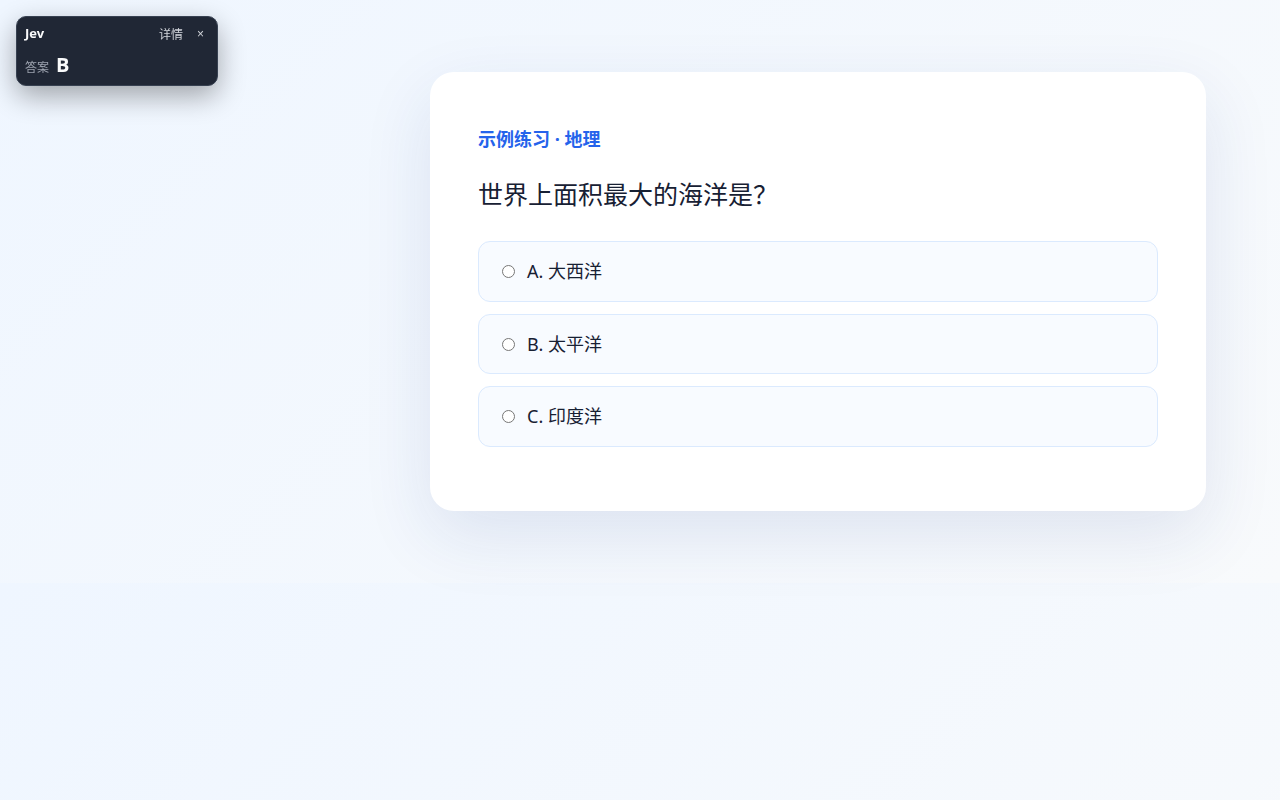
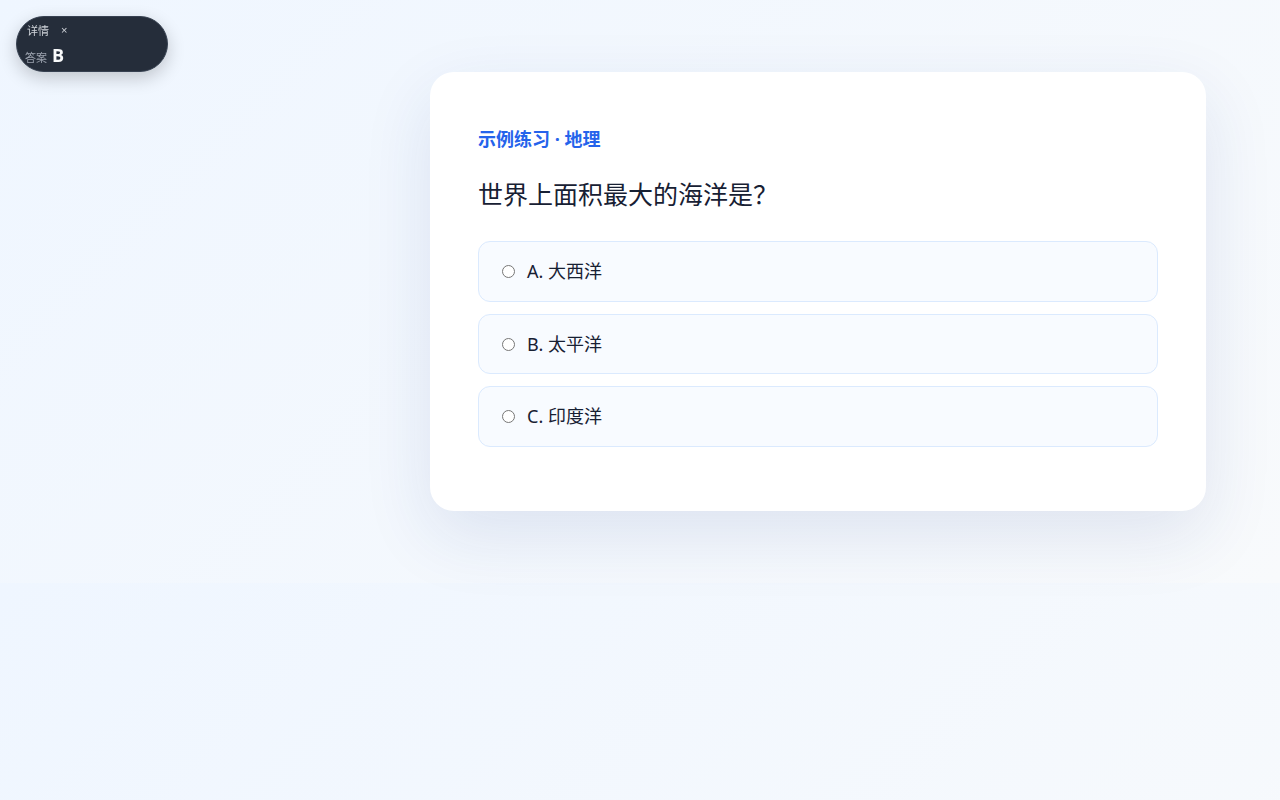
ui: make answer overlay unobtrusive

Changed region(s): [[0.0, 0.0, 0.1875, 0.1562]]

diff --git a/src/content/overlay.ts b/src/content/overlay.ts
@@ -151,4 +151,4 @@ export class ResultOverlay {
 }
 function warningText(w: string) { return ({ LOW_OCR_CONFIDENCE: "OCR 置信度较低", POSSIBLE_FORMULA: "可能包含公式", POSSIBLE_DIAGRAM: "可能依赖图形", INCOMPLETE_OPTIONS: "选项可能不完整", VISION_MODEL_REQUIRED: "建议使用视觉模型", VISION_MODEL_UNSUPPORTED: "当前视觉模型不支持图片，已降级到本地 OCR", VISION_SERVICE_UNAVAILABLE: "视觉服务暂时不可用，已降级到本地 OCR", DOM_OCR_CONFLICT: "网页文字与 OCR 结果冲突", STRUCTURE_REVIEW_REQUIRED: "题目结构尚未确认，请校正" } as Record<string, string>)[w] ?? w; }
 function escapeHtml(value: string) { return value.replace(/[&<>"']/g, (c) => ({ "&": "&amp;", "<": "&lt;", ">": "&gt;", '"': "&quot;", "'": "&#39;" })[c]!); }
-const CSS_TEXT = `:host{all:initial}section{position:fixed;z-index:2147483647;left:12px;top:12px;width:220px;max-width:calc(100vw - 24px);max-height:calc(100vh - 24px);overflow:auto;background:#111827ee;color:#f9fafb;border:1px solid #374151;border-radius:10px;box-shadow:0 10px 28px #0005;font:13px/1.4 system-ui,sans-serif;backdrop-filter:blur(8px)}section.compact{width:200px}section.compact header{border-bottom:0;padding:6px 8px}section.compact header small{display:none}section.compact main{padding:4px 8px 8px}section.expanded{width:360px;max-width:calc(100vw - 24px)}header{display:flex;justify-content:space-between;align-items:center;gap:8px;padding:8px 10px;border-bottom:1px solid #374151;cursor:move}header span{display:flex;gap:4px}header button{background:none;border:0;color:#d1d5db;font-size:12px;padding:2px 5px}main{padding:10px}.answer-compact{display:flex;align-items:baseline;gap:7px;white-space:nowrap;overflow:hidden}.answer-compact span{color:#9ca3af;font-size:12px}.answer-compact strong{font-size:20px;line-height:1.1;overflow:hidden;text-overflow:ellipsis}.answer-compact small{color:#9ca3af}.row{display:grid;grid-template-columns:minmax(0,1.35fr) minmax(48px,1fr) 52px;gap:8px;align-items:center;margin:9px 0}.row[data-option-id]{cursor:pointer}.row[data-option-id]:hover{background:#ffffff0d}.option-copy{min-width:0;display:flex;gap:6px;align-items:baseline}.option-copy>b{flex:0 0 auto}.option-copy span{min-width:0;overflow:hidden;text-overflow:ellipsis;white-space:nowrap;color:#d1d5db}.bar{height:9px;background:#374151;border-radius:9px;overflow:hidden}.bar i{display:block;height:100%;background:linear-gradient(90deg,#22c55e,#60a5fa)}small{color:#9ca3af}.warning,.error{margin:10px 0;padding:9px;border-radius:8px;background:#78350f;color:#fef3c7}.error{background:#7f1d1d}.actions{display:flex;justify-content:flex-end;gap:8px;margin-top:12px}button{cursor:pointer;border:1px solid #4b5563;background:#1f2937;color:#fff;padding:6px 10px;border-radius:7px}.primary{background:#2563eb;border-color:#3b82f6}.editor label{display:block;margin:9px 0}.editor textarea,.editor select{box-sizing:border-box;width:100%;margin-top:4px;background:#0f172a;color:#fff;border:1px solid #475569;border-radius:7px;padding:7px}.editor textarea{min-height:64px;resize:vertical}.preview{margin-bottom:12px}.preview summary{cursor:pointer}.preview-image{position:relative;margin:7px 0;line-height:0}.preview-image img{display:block;width:100%;height:auto;background:#fff}.ocr-text{max-height:140px;overflow:auto;white-space:pre-wrap;margin:7px 0;padding:7px;background:#0f172a;color:#cbd5e1;border-radius:7px;font:12px/1.4 ui-monospace,monospace}.ocr-box{position:absolute;padding:0;border:1px solid #22d3ee;background:#22d3ee18;border-radius:2px}.ocr-box:hover,.ocr-box:focus{background:#f59e0b33;border-color:#f59e0b}.ocr-box[data-label]::after{content:attr(data-label);position:absolute;left:0;top:100%;z-index:2;min-width:120px;padding:4px;background:#020617;color:white;font:11px/1.3 system-ui;white-space:normal}.spinner{display:inline-block;width:14px;height:14px;border:2px solid #64748b;border-top-color:#fff;border-radius:50%;animation:s .8s linear infinite;margin-right:8px}@keyframes s{to{transform:rotate(360deg)}}#explanation{white-space:pre-wrap;margin-top:12px;color:#e5e7eb}`;
+const CSS_TEXT = `:host{all:initial}section{position:fixed;z-index:2147483647;left:12px;top:12px;width:220px;max-width:calc(100vw - 24px);max-height:calc(100vh - 24px);overflow:auto;background:#111827ee;color:#f9fafb;border:1px solid #374151;border-radius:10px;box-shadow:0 10px 28px #0005;font:13px/1.4 system-ui,sans-serif;backdrop-filter:blur(8px)}section.compact{width:150px;border-radius:999px;background:#111827e8;box-shadow:0 6px 18px #0003}section.compact header{border-bottom:0;padding:4px 6px;gap:4px}section.compact header>b,section.compact header small{display:none}section.compact header button{font-size:11px;padding:1px 4px}section.compact main{padding:3px 8px 5px}section.expanded{width:360px;max-width:calc(100vw - 24px)}header{display:flex;justify-content:space-between;align-items:center;gap:8px;padding:8px 10px;border-bottom:1px solid #374151;cursor:move}header span{display:flex;gap:4px}header button{background:none;border:0;color:#d1d5db;font-size:12px;padding:2px 5px}main{padding:10px}.answer-compact{display:flex;align-items:baseline;gap:5px;white-space:nowrap;overflow:hidden}.answer-compact span{color:#9ca3af;font-size:11px}.answer-compact strong{font-size:18px;line-height:1.1;overflow:hidden;text-overflow:ellipsis}.answer-compact small{color:#9ca3af}.row{display:grid;grid-template-columns:minmax(0,1.35fr) minmax(48px,1fr) 52px;gap:8px;align-items:center;margin:9px 0}.row[data-option-id]{cursor:pointer}.row[data-option-id]:hover{background:#ffffff0d}.option-copy{min-width:0;display:flex;gap:6px;align-items:baseline}.option-copy>b{flex:0 0 auto}.option-copy span{min-width:0;overflow:hidden;text-overflow:ellipsis;white-space:nowrap;color:#d1d5db}.bar{height:9px;background:#374151;border-radius:9px;overflow:hidden}.bar i{display:block;height:100%;background:linear-gradient(90deg,#22c55e,#60a5fa)}small{color:#9ca3af}.warning,.error{margin:10px 0;padding:9px;border-radius:8px;background:#78350f;color:#fef3c7}.error{background:#7f1d1d}.actions{display:flex;justify-content:flex-end;gap:8px;margin-top:12px}button{cursor:pointer;border:1px solid #4b5563;background:#1f2937;color:#fff;padding:6px 10px;border-radius:7px}.primary{background:#2563eb;border-color:#3b82f6}.editor label{display:block;margin:9px 0}.editor textarea,.editor select{box-sizing:border-box;width:100%;margin-top:4px;background:#0f172a;color:#fff;border:1px solid #475569;border-radius:7px;padding:7px}.editor textarea{min-height:64px;resize:vertical}.preview{margin-bottom:12px}.preview summary{cursor:pointer}.preview-image{position:relative;margin:7px 0;line-height:0}.preview-image img{display:block;width:100%;height:auto;background:#fff}.ocr-text{max-height:140px;overflow:auto;white-space:pre-wrap;margin:7px 0;padding:7px;background:#0f172a;color:#cbd5e1;border-radius:7px;font:12px/1.4 ui-monospace,monospace}.ocr-box{position:absolute;padding:0;border:1px solid #22d3ee;background:#22d3ee18;border-radius:2px}.ocr-box:hover,.ocr-box:focus{background:#f59e0b33;border-color:#f59e0b}.ocr-box[data-label]::after{content:attr(data-label);position:absolute;left:0;top:100%;z-index:2;min-width:120px;padding:4px;background:#020617;color:white;font:11px/1.3 system-ui;white-space:normal}.spinner{display:inline-block;width:14px;height:14px;border:2px solid #64748b;border-top-color:#fff;border-radius:50%;animation:s .8s linear infinite;margin-right:8px}@keyframes s{to{transform:rotate(360deg)}}#explanation{white-space:pre-wrap;margin-top:12px;color:#e5e7eb}`;
